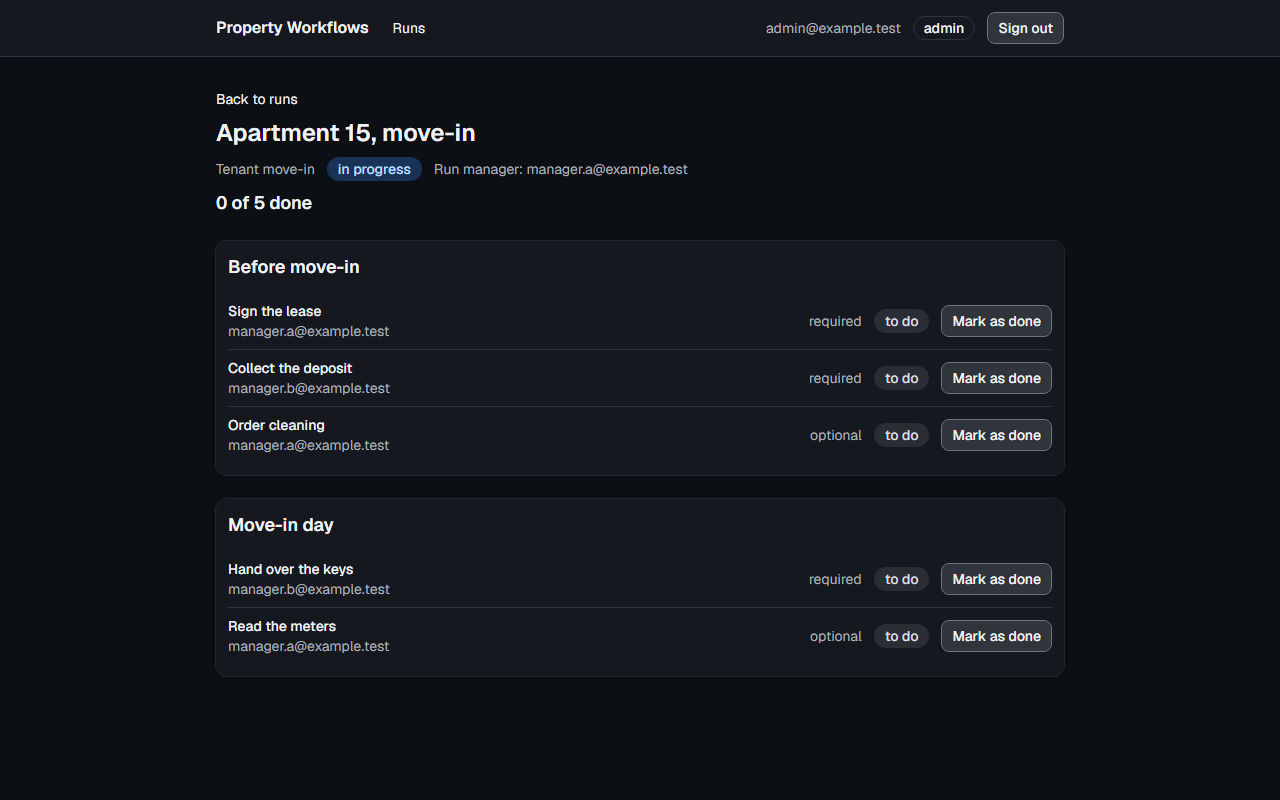
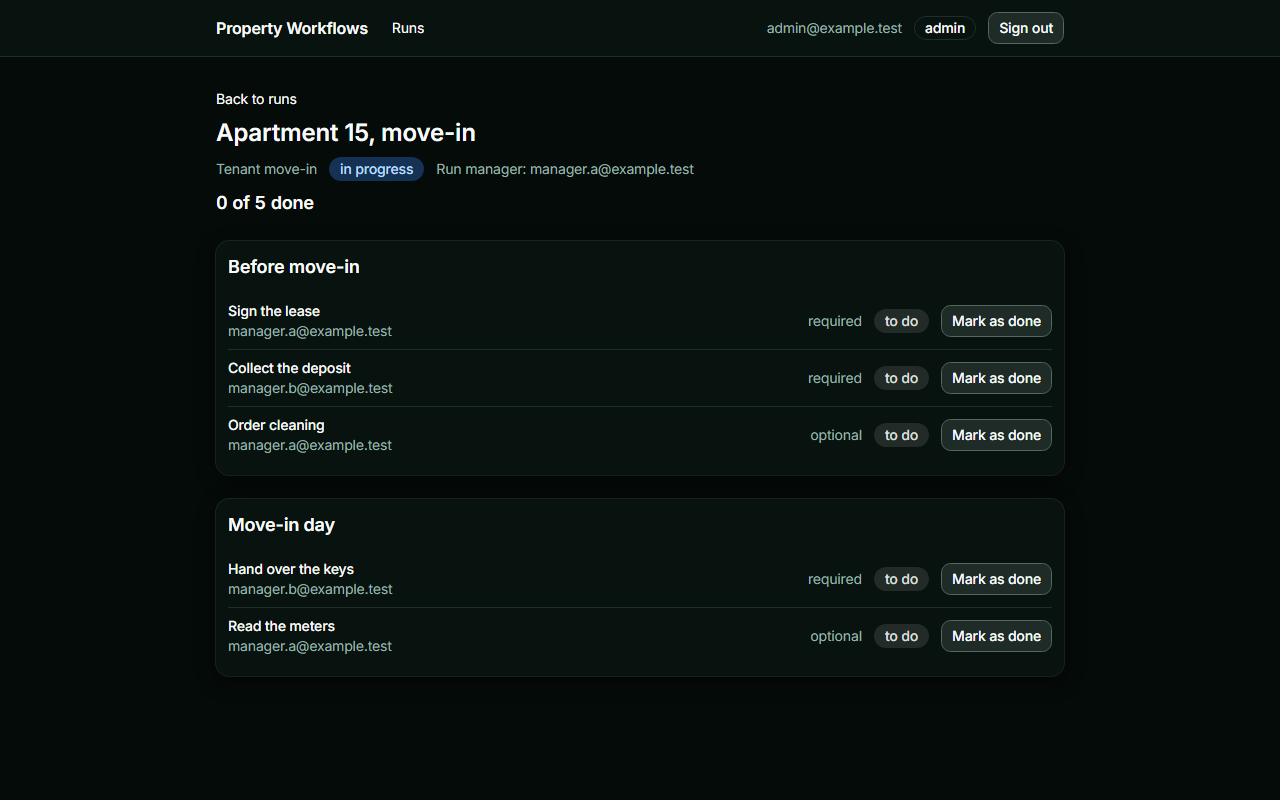
Дизайн-система: тема tweakcn як основа (смарагдова основна дія, Inter, радіус 0.6rem, м'які тіні)
Основа — тема tweakcn https://tweakcn.com/themes/cmlxzdqhc000004js4867ch0s, адаптована під «Вигляд і тон» PM і
контраст WCAG: primary затемнено до 4.7:1 (темна тема — темний текст на primary), input затемнено до ≥ 3:1,
destructive і muted-foreground — до ≥ 4.5:1, додано статусні токени status-*. Знімки «після» оновлено.

diff --git a/src/app/globals.css b/src/app/globals.css
@@ -2,12 +2,13 @@
 @import "tw-animate-css";
 @import "shadcn/tailwind.css";
 
-/* Токени — DESIGN.md, розділ 2. Новий токен: DESIGN.md → :root і темна тема нижче → --color-<назва> у @theme inline.
+/* Токени — DESIGN.md, розділ 2 (основа — тема tweakcn, адаптована під «Вигляд і тон» PM і контраст).
+   Новий токен: DESIGN.md → :root і темна тема нижче → --color-<назва> у @theme inline.
    Темна тема — лише за системою (prefers-color-scheme); вбудований варіант dark: Tailwind 4 теж слідує за системою. */
 
 @theme inline {
-  --font-sans: var(--font-geist-sans), ui-sans-serif, system-ui, sans-serif;
-  --font-mono: var(--font-geist-mono), ui-monospace, monospace;
+  --font-sans: var(--font-inter), ui-sans-serif, system-ui, sans-serif;
+  --font-mono: var(--font-jetbrains-mono), ui-monospace, monospace;
   --font-heading: var(--font-sans);
   --color-background: var(--background);
   --color-foreground: var(--foreground);
@@ -42,66 +43,79 @@
   --radius-2xl: calc(var(--radius) * 1.8);
   --radius-3xl: calc(var(--radius) * 2.2);
   --radius-4xl: calc(var(--radius) * 2.6);
+  --shadow-xs: var(--elevation-xs);
+  --shadow-sm: var(--elevation-sm);
+  --shadow-md: var(--elevation-md);
+  --shadow-lg: var(--elevation-lg);
 }
 
 :root {
-  --radius: 0.5rem;
-  --background: oklch(0.985 0.002 260);
-  --foreground: oklch(0.21 0.02 260);
+  --radius: 0.6rem;
+  --tracking-normal: -0.01em;
+  --background: oklch(0.9934 0.0017 174.535);
+  --foreground: oklch(0.2464 0.0358 168.98);
   --card: oklch(1 0 0);
-  --card-foreground: oklch(0.21 0.02 260);
+  --card-foreground: oklch(0.2464 0.0358 168.98);
   --popover: oklch(1 0 0);
-  --popover-foreground: oklch(0.21 0.02 260);
-  --primary: oklch(0.47 0.19 295);
-  --primary-foreground: oklch(0.99 0 0);
-  --secondary: oklch(0.955 0.006 260);
-  --secondary-foreground: oklch(0.25 0.02 260);
-  --muted: oklch(0.965 0.005 260);
-  --muted-foreground: oklch(0.46 0.02 260);
-  --accent: oklch(0.95 0.01 260);
-  --accent-foreground: oklch(0.25 0.02 260);
-  --destructive: oklch(0.52 0.2 27);
-  --border: oklch(0.9 0.008 260);
-  --input: oklch(0.6 0.02 260);
-  --ring: oklch(0.47 0.19 295);
-  --status-todo: oklch(0.94 0.006 260);
-  --status-todo-foreground: oklch(0.36 0.015 260);
+  --popover-foreground: oklch(0.2464 0.0358 168.98);
+  --primary: oklch(0.53 0.1362 162.517);
+  --primary-foreground: oklch(0.9915 0.0116 174.24);
+  --secondary: oklch(0.9593 0.0088 174.32);
+  --secondary-foreground: oklch(0.4406 0.074 167.51);
+  --muted: oklch(0.9572 0.0053 174.43);
+  --muted-foreground: oklch(0.52 0.04 172.23);
+  --accent: oklch(0.9498 0.0187 174);
+  --accent-foreground: oklch(0.4575 0.0843 166.16);
+  --destructive: oklch(0.55 0.2 25.38);
+  --border: oklch(0.9161 0.0142 174.13);
+  --input: oklch(0.62 0.03 174);
+  --ring: oklch(0.53 0.1362 162.517);
+  --status-todo: oklch(0.94 0.006 174);
+  --status-todo-foreground: oklch(0.38 0.015 172);
   --status-progress: oklch(0.93 0.045 250);
-  --status-progress-foreground: oklch(0.42 0.15 258);
-  --status-done: oklch(0.93 0.06 150);
-  --status-done-foreground: oklch(0.4 0.11 150);
-  --status-unpublished: oklch(0.94 0.09 92);
-  --status-unpublished-foreground: oklch(0.42 0.09 65);
+  --status-progress-foreground: oklch(0.43 0.15 258);
+  --status-done: oklch(0.93 0.07 145);
+  --status-done-foreground: oklch(0.42 0.12 145);
+  --status-unpublished: oklch(0.94 0.1 92);
+  --status-unpublished-foreground: oklch(0.43 0.09 65);
+  --elevation-xs: 0px 4px 12px 0px hsl(160 50% 10% / 0.03);
+  --elevation-sm: 0px 4px 12px 0px hsl(160 50% 10% / 0.06), 0px 1px 2px -1px hsl(160 50% 10% / 0.06);
+  --elevation-md: 0px 4px 12px 0px hsl(160 50% 10% / 0.06), 0px 2px 4px -1px hsl(160 50% 10% / 0.06);
+  --elevation-lg: 0px 4px 12px 0px hsl(160 50% 10% / 0.06), 0px 4px 6px -1px hsl(160 50% 10% / 0.06);
 }
 
 @media (prefers-color-scheme: dark) {
   :root {
-    --background: oklch(0.17 0.012 260);
-    --foreground: oklch(0.96 0.005 260);
-    --card: oklch(0.21 0.014 260);
-    --card-foreground: oklch(0.96 0.005 260);
-    --popover: oklch(0.21 0.014 260);
-    --popover-foreground: oklch(0.96 0.005 260);
-    --primary: oklch(0.74 0.14 295);
-    --primary-foreground: oklch(0.18 0.04 295);
-    --secondary: oklch(0.28 0.015 260);
-    --secondary-foreground: oklch(0.96 0.005 260);
-    --muted: oklch(0.26 0.014 260);
-    --muted-foreground: oklch(0.76 0.015 260);
-    --accent: oklch(0.29 0.016 260);
-    --accent-foreground: oklch(0.96 0.005 260);
-    --destructive: oklch(0.71 0.17 25);
-    --border: oklch(0.32 0.014 260);
-    --input: oklch(0.56 0.015 260);
-    --ring: oklch(0.74 0.14 295);
-    --status-todo: oklch(0.3 0.012 260);
-    --status-todo-foreground: oklch(0.9 0.01 260);
-    --status-progress: oklch(0.32 0.07 255);
-    --status-progress-foreground: oklch(0.89 0.06 250);
-    --status-done: oklch(0.32 0.06 150);
-    --status-done-foreground: oklch(0.89 0.08 150);
-    --status-unpublished: oklch(0.34 0.06 80);
-    --status-unpublished-foreground: oklch(0.93 0.09 92);
+    --background: oklch(0.1396 0.0125 174.69);
+    --foreground: oklch(0.9861 0.0023 174.52);
+    --card: oklch(0.17 0.017 171.55);
+    --card-foreground: oklch(0.9861 0.0023 174.52);
+    --popover: oklch(0.1551 0.0146 172.77);
+    --popover-foreground: oklch(0.9861 0.0023 174.52);
+    --primary: oklch(0.7678 0.1655 162.19);
+    --primary-foreground: oklch(0.17 0.02 170);
+    --secondary: oklch(0.2539 0.023 171.58);
+    --secondary-foreground: oklch(0.9302 0.0118 174.21);
+    --muted: oklch(0.2295 0.0197 171.75);
+    --muted-foreground: oklch(0.7443 0.032 173.27);
+    --accent: oklch(0.299 0.0371 170.12);
+    --accent-foreground: oklch(0.9861 0.0023 174.52);
+    --destructive: oklch(0.7 0.17 25);
+    --border: oklch(0.2852 0.0226 172.01);
+    --input: oklch(0.5 0.025 172);
+    --ring: oklch(0.7678 0.1655 162.19);
+    --status-todo: oklch(0.28 0.012 172);
+    --status-todo-foreground: oklch(0.9 0.008 174);
+    --status-progress: oklch(0.31 0.07 255);
+    --status-progress-foreground: oklch(0.88 0.06 250);
+    --status-done: oklch(0.31 0.06 145);
+    --status-done-foreground: oklch(0.88 0.09 145);
+    --status-unpublished: oklch(0.33 0.06 85);
+    --status-unpublished-foreground: oklch(0.93 0.09 95);
+    --elevation-xs: 0px 6px 20px 0px hsl(0 0% 0% / 0.23);
+    --elevation-sm: 0px 6px 20px 0px hsl(0 0% 0% / 0.45), 0px 1px 2px -1px hsl(0 0% 0% / 0.45);
+    --elevation-md: 0px 6px 20px 0px hsl(0 0% 0% / 0.45), 0px 2px 4px -1px hsl(0 0% 0% / 0.45);
+    --elevation-lg: 0px 6px 20px 0px hsl(0 0% 0% / 0.45), 0px 4px 6px -1px hsl(0 0% 0% / 0.45);
   }
 }
 
@@ -113,6 +127,7 @@
   }
   body {
     @apply bg-background text-foreground;
+    letter-spacing: var(--tracking-normal);
   }
   html {
     @apply font-sans;

diff --git a/src/app/layout.tsx b/src/app/layout.tsx
@@ -1,14 +1,15 @@
 import type { Metadata } from "next";
-import { Geist, Geist_Mono } from "next/font/google";
+import { Inter, JetBrains_Mono } from "next/font/google";
 import "./globals.css";
 
-const geistSans = Geist({
-  variable: "--font-geist-sans",
+// Шрифти дизайн-системи (DESIGN.md, розділ 3): Inter — інтерфейс, JetBrains Mono — моноширинний.
+const inter = Inter({
+  variable: "--font-inter",
   subsets: ["latin"],
 });
 
-const geistMono = Geist_Mono({
-  variable: "--font-geist-mono",
+const jetbrainsMono = JetBrains_Mono({
+  variable: "--font-jetbrains-mono",
   subsets: ["latin"],
 });
 
@@ -21,7 +22,7 @@ export default function RootLayout({ children }: LayoutProps<"/">) {
   return (
     <html
       lang="en"
-      className={`${geistSans.variable} ${geistMono.variable} h-full antialiased`}
+      className={`${inter.variable} ${jetbrainsMono.variable} h-full antialiased`}
     >
       <body className="min-h-full flex flex-col">{children}</body>
     </html>

diff --git a/src/components/ui/card.tsx b/src/components/ui/card.tsx
@@ -11,7 +11,7 @@ function Card({
       data-slot="card"
       data-size={size}
       className={cn(
-        "group/card flex flex-col gap-(--card-spacing) overflow-hidden rounded-xl bg-card py-(--card-spacing) text-sm text-card-foreground ring-1 ring-foreground/10 [--card-spacing:--spacing(4)] has-data-[slot=card-footer]:pb-0 has-[>img:first-child]:pt-0 data-[size=sm]:[--card-spacing:--spacing(3)] data-[size=sm]:has-data-[slot=card-footer]:pb-0 *:[img:first-child]:rounded-t-xl *:[img:last-child]:rounded-b-xl",
+        "group/card flex flex-col gap-(--card-spacing) overflow-hidden rounded-xl bg-card py-(--card-spacing) text-sm text-card-foreground shadow-sm ring-1 ring-foreground/10 [--card-spacing:--spacing(4)] has-data-[slot=card-footer]:pb-0 has-[>img:first-child]:pt-0 data-[size=sm]:[--card-spacing:--spacing(3)] data-[size=sm]:has-data-[slot=card-footer]:pb-0 *:[img:first-child]:rounded-t-xl *:[img:last-child]:rounded-b-xl",
         className
       )}
       {...props}

diff --git a/DESIGN.md b/DESIGN.md
@@ -1,6 +1,8 @@
 # Дизайн-система: Property Workflows
 
-- **Джерело:** AI-чат: Claude Code (агент у цьому репо), промпт — в описі PR дизайн-системи.
+- **Джерело:** AI-чат: Claude Code (агент у цьому репо), промпт — в описі PR дизайн-системи. Основа палітри, шрифтів,
+  радіуса й тіней — тема tweakcn «my aweasome theme» (https://tweakcn.com/themes/cmlxzdqhc000004js4867ch0s), обрана
+  розробником; адаптація під «Вигляд і тон» PM і контраст — у розділі 2 («Що змінено відносно теми-основи»).
 - **Вхід від PM:** розділ «Вигляд і тон» у `requirements/product.md` (знімок 2026-10-26) і
   `requirements/19-use-one-design-system.md` (AC-DSYS-01…04).
 - **Код:** токени — `src/app/globals.css`; компоненти — `src/components/ui/` (shadcn/ui); спільні блоки сторінок —
@@ -11,8 +13,8 @@
 Внутрішній застосунок агенції з управління нерухомістю: адміністратор налаштовує шаблони процесів, менеджери
 запускають їх для випадків і відмічають задачі. Працюють переважно за ноутбуком, інколи з телефона. Тон — **спокійний,
 діловий, точний**: без жартів, знаків оклику, звинувачень («You made a mistake») і жаргону. Пріоритет — **щільність**:
-менеджер переглядає багато запусків одразу, тож таблиці щільні, але читабельні на телефоні. Інтерфейс — англійською;
-тексти з AC PM — дослівно.
+менеджер переглядає багато запусків одразу, тож таблиці щільні, але читабельні на телефоні. Вигляд — світлий, з
+легким бірюзово-зеленим відтінком сірих і м'якими тінями карток. Інтерфейс — англійською; тексти з AC PM — дослівно.
 
 ## 2. Кольори
 
@@ -21,30 +23,42 @@
 (темна тема в PM — поза межами зрізу, тож вона лише не повинна ламатися).
 
 **Правила за змістом («Вигляд і тон»):**
-- `primary` (фіолетовий) — **лише основна дія екрана** (Launch, Save, Sign in): одна на екран, ні для чого іншого,
-  не для статусів і не для посилань у тексті.
+- `primary` (смарагдовий) — **лише основна дія екрана** (Launch, Save, Sign in): одна на екран, суцільна заливка
+  кнопки, ні для чого іншого — не для статусів, посилань у тексті чи декору.
+- **Смарагдовий `primary` і зелений статус «done»/«completed» — свідоме рішення розробника** (кольорова родина теми).
+  Щоб їх не плутати: основна дія — лише суцільна кнопка з білим текстом (відтінок 162), статус — лише світлий бейдж
+  `StatusBadge` зі словом (жовтіший зелений, відтінок 145); бейдж ніколи не має вигляду кнопки, а кнопка — бейджа.
 - `destructive` (червоний) — помилки й небезпечні дії; небезпечна дія завжди з підтвердженням і текстом
   «This cannot be undone».
 - Статуси — власні токени `status-*`, кожен із текстом поруч: «to do» — нейтральний сірий, «in progress» — синій,
   «done» і «completed» — зелений, «Unpublished changes» — теплий жовтий.
 
+**Що змінено відносно теми-основи** (решта значень — як у темі):
+- `primary` (світла): у темі `oklch(0.6373 0.1362 162.5)` — білий текст на ньому має контраст ~3.1:1. Відтінок і
+  насиченість ті самі, світлоту знижено до 0.53 (контраст 4.7:1). У темній темі колір теми без змін, але текст на ньому
+  — темний (`primary-foreground` у темі світлий, контраст ~1.9:1).
+- `input`: у темі = `border` (контраст ~1.3:1) — затемнено до ≥ 3:1.
+- `muted-foreground` (світла) і `destructive` — затемнено до тексту ≥ 4.5:1; у темній темі `destructive` — світлий
+  червоний, бо в темі він темний (для тла, а не для тексту).
+- Додано статусні токени `status-*` — у темі їх немає.
+
 | Токен | Для чого | Світла | Темна | Клас |
 |---|---|---|---|---|
-| `background` / `foreground` | тло сторінки й основний текст | `oklch(0.985 0.002 260)` / `oklch(0.21 0.02 260)` | `oklch(0.17 0.012 260)` / `oklch(0.96 0.005 260)` | `bg-background`, `text-foreground` |
-| `card` / `card-foreground` | картки, панелі, таблиці | `oklch(1 0 0)` / `oklch(0.21 0.02 260)` | `oklch(0.21 0.014 260)` / `oklch(0.96 0.005 260)` | `bg-card`, `text-card-foreground` |
-| `popover` / `popover-foreground` | меню, діалоги | як `card` | як `card` | `bg-popover`, `text-popover-foreground` |
-| `primary` / `primary-foreground` | основна дія (одна на екран) | `oklch(0.47 0.19 295)` / `oklch(0.99 0 0)` | `oklch(0.74 0.14 295)` / `oklch(0.18 0.04 295)` | `bg-primary`, `text-primary-foreground` |
-| `secondary` / `secondary-foreground` | другорядна дія | `oklch(0.955 0.006 260)` / `oklch(0.25 0.02 260)` | `oklch(0.28 0.015 260)` / `oklch(0.96 0.005 260)` | `bg-secondary`, `text-secondary-foreground` |
-| `muted` / `muted-foreground` | приглушене тло, підписи, допоміжний текст | `oklch(0.965 0.005 260)` / `oklch(0.46 0.02 260)` | `oklch(0.26 0.014 260)` / `oklch(0.76 0.015 260)` | `bg-muted`, `text-muted-foreground` |
-| `accent` / `accent-foreground` | наведення, вибраний рядок | `oklch(0.95 0.01 260)` / `oklch(0.25 0.02 260)` | `oklch(0.29 0.016 260)` / `oklch(0.96 0.005 260)` | `bg-accent`, `text-accent-foreground` |
-| `destructive` | помилка, небезпечна дія | `oklch(0.52 0.2 27)` | `oklch(0.71 0.17 25)` | `bg-destructive`, `text-destructive` |
-| `border` | розділювачі, межі карток | `oklch(0.9 0.008 260)` | `oklch(0.32 0.014 260)` | `border-border` |
-| `input` | межа поля вводу | `oklch(0.6 0.02 260)` | `oklch(0.56 0.015 260)` | `border-input` |
-| `ring` | кільце фокусу | `oklch(0.47 0.19 295)` | `oklch(0.74 0.14 295)` | `ring-ring` |
-| `status-todo` / `-foreground` | статус задачі «to do» (сірий) | `oklch(0.94 0.006 260)` / `oklch(0.36 0.015 260)` | `oklch(0.3 0.012 260)` / `oklch(0.9 0.01 260)` | `bg-status-todo`, `text-status-todo-foreground` |
-| `status-progress` / `-foreground` | статус запуску «in progress» (синій) | `oklch(0.93 0.045 250)` / `oklch(0.42 0.15 258)` | `oklch(0.32 0.07 255)` / `oklch(0.89 0.06 250)` | `bg-status-progress`, `text-status-progress-foreground` |
-| `status-done` / `-foreground` | «done» і «completed» (зелений) | `oklch(0.93 0.06 150)` / `oklch(0.4 0.11 150)` | `oklch(0.32 0.06 150)` / `oklch(0.89 0.08 150)` | `bg-status-done`, `text-status-done-foreground` |
-| `status-unpublished` / `-foreground` | «Unpublished changes» (теплий жовтий) | `oklch(0.94 0.09 92)` / `oklch(0.42 0.09 65)` | `oklch(0.34 0.06 80)` / `oklch(0.93 0.09 92)` | `bg-status-unpublished`, `text-status-unpublished-foreground` |
+| `background` / `foreground` | тло сторінки й основний текст | `oklch(0.9934 0.0017 174.5)` / `oklch(0.2464 0.0358 169)` | `oklch(0.1396 0.0125 174.7)` / `oklch(0.9861 0.0023 174.5)` | `bg-background`, `text-foreground` |
+| `card` / `card-foreground` | картки, панелі, таблиці | `oklch(1 0 0)` / `oklch(0.2464 0.0358 169)` | `oklch(0.17 0.017 171.6)` / `oklch(0.9861 0.0023 174.5)` | `bg-card`, `text-card-foreground` |
+| `popover` / `popover-foreground` | меню, діалоги | `oklch(1 0 0)` / як `foreground` | `oklch(0.1551 0.0146 172.8)` / як `foreground` | `bg-popover`, `text-popover-foreground` |
+| `primary` / `primary-foreground` | основна дія (одна на екран) | `oklch(0.53 0.1362 162.5)` / `oklch(0.9915 0.0116 174.2)` | `oklch(0.7678 0.1655 162.2)` / `oklch(0.17 0.02 170)` | `bg-primary`, `text-primary-foreground` |
+| `secondary` / `secondary-foreground` | другорядна дія | `oklch(0.9593 0.0088 174.3)` / `oklch(0.4406 0.074 167.5)` | `oklch(0.2539 0.023 171.6)` / `oklch(0.9302 0.0118 174.2)` | `bg-secondary`, `text-secondary-foreground` |
+| `muted` / `muted-foreground` | приглушене тло, підписи, допоміжний текст | `oklch(0.9572 0.0053 174.4)` / `oklch(0.52 0.04 172.2)` | `oklch(0.2295 0.0197 171.8)` / `oklch(0.7443 0.032 173.3)` | `bg-muted`, `text-muted-foreground` |
+| `accent` / `accent-foreground` | наведення, вибраний рядок (світлий відтінок, не акцент дії) | `oklch(0.9498 0.0187 174)` / `oklch(0.4575 0.0843 166.2)` | `oklch(0.299 0.0371 170.1)` / `oklch(0.9861 0.0023 174.5)` | `bg-accent`, `text-accent-foreground` |
+| `destructive` | помилка, небезпечна дія | `oklch(0.55 0.2 25.4)` | `oklch(0.7 0.17 25)` | `bg-destructive`, `text-destructive` |
+| `border` | розділювачі, межі карток | `oklch(0.9161 0.0142 174.1)` | `oklch(0.2852 0.0226 172)` | `border-border` |
+| `input` | межа поля вводу | `oklch(0.62 0.03 174)` | `oklch(0.5 0.025 172)` | `border-input` |
+| `ring` | кільце фокусу | `oklch(0.53 0.1362 162.5)` | `oklch(0.7678 0.1655 162.2)` | `ring-ring` |
+| `status-todo` / `-foreground` | статус задачі «to do» (сірий) | `oklch(0.94 0.006 174)` / `oklch(0.38 0.015 172)` | `oklch(0.28 0.012 172)` / `oklch(0.9 0.008 174)` | `bg-status-todo`, `text-status-todo-foreground` |
+| `status-progress` / `-foreground` | статус запуску «in progress» (синій) | `oklch(0.93 0.045 250)` / `oklch(0.43 0.15 258)` | `oklch(0.31 0.07 255)` / `oklch(0.88 0.06 250)` | `bg-status-progress`, `text-status-progress-foreground` |
+| `status-done` / `-foreground` | «done» і «completed» (зелений) | `oklch(0.93 0.07 145)` / `oklch(0.42 0.12 145)` | `oklch(0.31 0.06 145)` / `oklch(0.88 0.09 145)` | `bg-status-done`, `text-status-done-foreground` |
+| `status-unpublished` / `-foreground` | «Unpublished changes» (теплий жовтий) | `oklch(0.94 0.1 92)` / `oklch(0.43 0.09 65)` | `oklch(0.33 0.06 85)` / `oklch(0.93 0.09 95)` | `bg-status-unpublished`, `text-status-unpublished-foreground` |
 
 ### Контраст
 
@@ -52,28 +66,29 @@
 
 | Пара | Світла | Темна | Норма |
 |---|---|---|---|
-| `foreground` на `background` | 17.0 | 17.0 | ≥ 4.5 |
-| `card-foreground` на `card` | 17.7 | 15.8 | ≥ 4.5 |
-| `muted-foreground` на `background` | 6.8 | 8.9 | ≥ 4.5 |
-| `muted-foreground` на `card` | 7.1 | 8.3 | ≥ 4.5 |
-| `muted-foreground` на `muted` | 6.4 | 7.2 | ≥ 4.5 |
-| `primary-foreground` на `primary` | 7.3 | 7.9 | ≥ 4.5 |
-| `secondary-foreground` на `secondary` | 14.0 | 13.0 | ≥ 4.5 |
-| `accent-foreground` на `accent` | 13.8 | 12.6 | ≥ 4.5 |
-| `destructive` на `card` | 6.1 | 6.4 | ≥ 4.5 |
-| `destructive` на `background` | 5.9 | 6.9 | ≥ 4.5 |
-| `status-todo-foreground` на `status-todo` | 9.1 | 10.1 | ≥ 4.5 |
-| `status-progress-foreground` на `status-progress` | 7.0 | 9.2 | ≥ 4.5 |
-| `status-done-foreground` на `status-done` | 7.3 | 9.2 | ≥ 4.5 |
-| `status-unpublished-foreground` на `status-unpublished` | 7.3 | 9.6 | ≥ 4.5 |
-| `input` на `card` | 3.9 | 3.8 | ≥ 3 |
-| `input` на `background` | 3.8 | 4.1 | ≥ 3 |
-| `ring` на `background` | 7.2 | 7.9 | ≥ 3 |
-| `ring` на `card` | 7.5 | 7.4 | ≥ 3 |
+| `foreground` на `background` | 15.7 | 19.1 | ≥ 4.5 |
+| `card-foreground` на `card` | 16.0 | 18.3 | ≥ 4.5 |
+| `muted-foreground` на `background` | 5.3 | 8.9 | ≥ 4.5 |
+| `muted-foreground` на `card` | 5.4 | 8.5 | ≥ 4.5 |
+| `muted-foreground` на `muted` | 4.8 | 7.5 | ≥ 4.5 |
+| `primary-foreground` на `primary` | 4.7 | 9.8 | ≥ 4.5 |
+| `secondary-foreground` на `secondary` | 6.6 | 12.8 | ≥ 4.5 |
+| `accent-foreground` на `accent` | 6.0 | 12.9 | ≥ 4.5 |
+| `destructive` на `card` | 5.4 | 6.6 | ≥ 4.5 |
+| `destructive` на `background` | 5.3 | 6.9 | ≥ 4.5 |
+| `status-todo-foreground` на `status-todo` | 8.3 | 10.8 | ≥ 4.5 |
+| `status-progress-foreground` на `status-progress` | 6.7 | 9.2 | ≥ 4.5 |
+| `status-done-foreground` на `status-done` | 6.7 | 9.2 | ≥ 4.5 |
+| `status-unpublished-foreground` на `status-unpublished` | 6.9 | 10.0 | ≥ 4.5 |
+| `input` на `card` | 3.6 | 3.2 | ≥ 3 |
+| `input` на `background` | 3.5 | 3.4 | ≥ 3 |
+| `ring` на `background` | 4.7 | 10.2 | ≥ 3 |
+| `ring` на `card` | 4.8 | 9.8 | ≥ 3 |
 
 ## 3. Типографіка
 
-Шрифт — Geist (`next/font`, `--font-sans`). Дрібного сірого тексту немає: найменший розмір — `text-sm`.
+Шрифт — Inter (`next/font`, `--font-sans`), моноширинний — JetBrains Mono (`--font-mono`); міжлітерний інтервал
+`--tracking-normal: -0.01em` (з теми-основи). Дрібного сірого тексту немає: найменший розмір — `text-sm`.
 
 | Роль | Клас | Де |
 |---|---|---|
@@ -83,12 +98,15 @@
 | Підпис, допоміжний текст | `text-sm text-muted-foreground` | назва шаблону в рядку, email виконавця |
 | Числа (прогрес, дати) | `tabular-nums` | «2 of 5 done», «12.10.2026 14:05» |
 
-## 4. Відступи й радіуси
+## 4. Відступи, радіуси й тіні
 
 - Ширина контенту — `max-w-4xl`, бічні відступи `px-4 sm:px-6`; між блоками сторінки — `gap-6`, усередині картки —
   `gap-4`, між полями форми — `gap-4`, між підписом і полем — `gap-2`.
 - Рядок таблиці — щільний: `py-2` (за замовчуванням `Table`).
-- Радіус — `--radius: 0.5rem`; картки `rounded-lg`, поля й кнопки `rounded-md`, бейджі статусів `rounded-full`.
+- Радіус — `--radius: 0.6rem` (з теми-основи); картки `rounded-xl`, поля й кнопки `rounded-lg`, бейджі статусів
+  `rounded-full`.
+- Тіні — м'які, з теми-основи (`--elevation-*` → `shadow-xs/sm/md/lg`); картка — `shadow-sm`. Декоративних тіней і
+  градієнтів немає.
 - На вузькому екрані (`< sm`) першими лишаються назва випадку, статус і прогрес; другорядні колонки (назва шаблону)
   переносяться під назву випадку.
 
@@ -101,12 +119,12 @@
 |---|---|---|
 | `Button` | `default`, `secondary`, `outline`, `ghost`, `destructive`, `link` | `default` (primary) — одна основна дія на екран (Launch, Save, Sign in); решта дій — `outline` чи `secondary`; `destructive` — лише з підтвердженням; текст починається з дієслова |
 | `Input` + `Label` | — | у кожного поля `Label` з `htmlFor`; placeholder — не замість підпису |
-| `Card` | `CardHeader`, `CardTitle`, `CardContent` | форма запуску, секції запуску й шаблону, повідомлення стану |
+| `NativeSelect` | — | вибір шаблону й виконавця в серверних формах (працює без JavaScript) |
+| `Card` | `CardHeader`, `CardTitle`, `CardContent`; `size="sm"` | форма запуску, секції запуску й шаблону, повідомлення стану |
 | `Table` | — | списки запусків і версій; перша колонка — назва випадку; без порожньої таблиці (порожній стан замість неї) |
 | `Badge` | через `StatusBadge` (`src/components/status-badge.tsx`) | статус — завжди слово + колір токена `status-*`; один і той самий статус однаковий на всіх сторінках |
 | `Alert` | `default`, `destructive` | помилка дії (`destructive`) над формою; текст — дослівно з AC |
 | `Dialog` | — | підтвердження незворотної дії з текстом «This cannot be undone» |
-| `Select` | — | вибір шаблону й виконавця у формі запуску |
 
 ## 6. Стани
 
